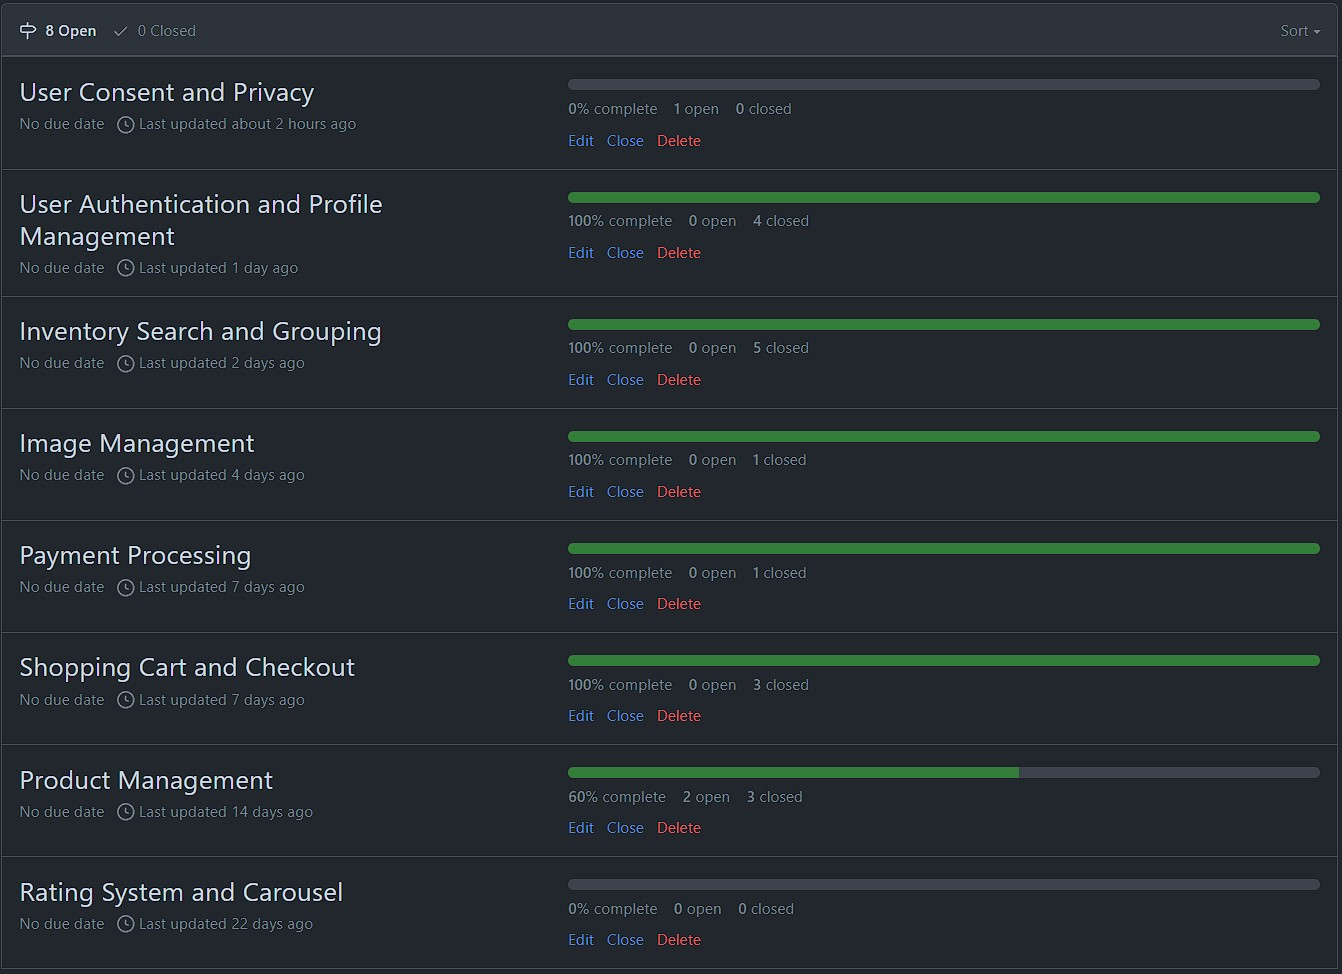
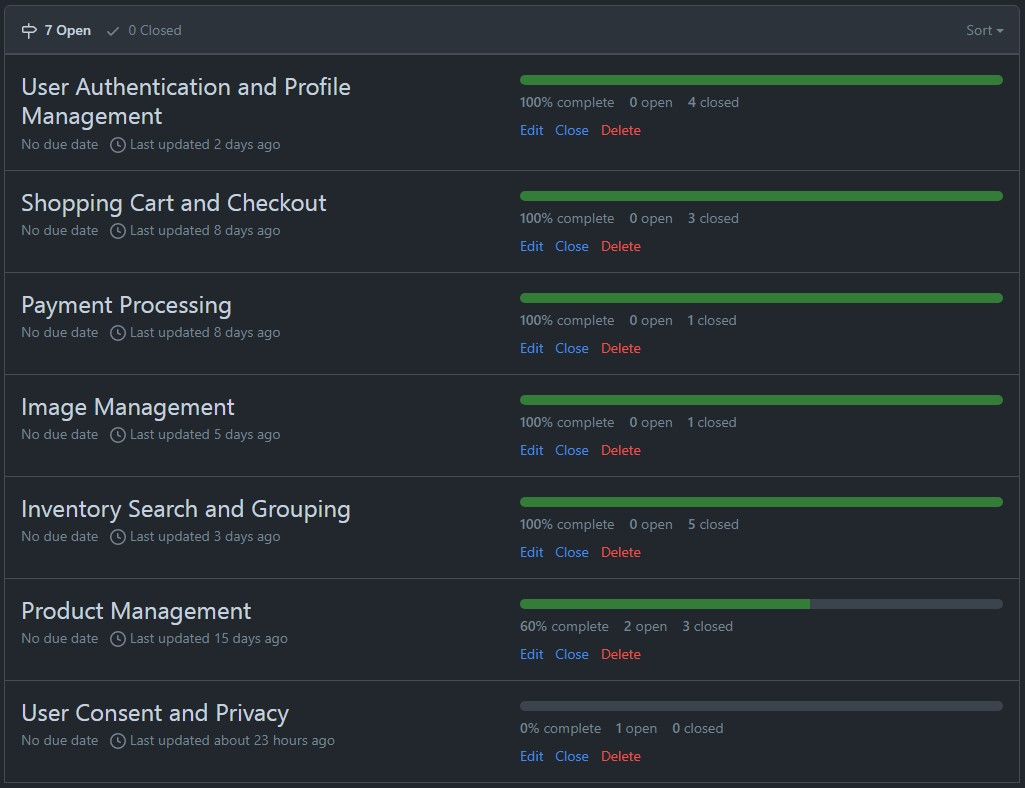
udpate README

diff --git a/README.md b/README.md
@@ -123,13 +123,13 @@ Pixel Perfect is a Django-based web application dedicated to game franchise enth
 
 4. Enable a Seamless User Experience: Focus on providing a smooth and intuitive user experience from listing posters to making purchases, with an emphasis on high-quality images and detailed descriptions.
 
-### User Goals
+## User Goals
 - Discover a Wide Selection of Game-Themed Posters: Explore an extensive collection of high-quality posters from reputable sellers and verified listings.
 - Find a Specialized Platform: Utilize a platform that caters exclusively to the needs and interests of game franchise enthusiasts and art collectors.
 - Safely Buy and Sell Posters: Engage in buying and selling posters within a secure community that values authenticity, quality, and the artistic elements of game franchises.
 - Connect with Other Enthusiasts: Connect with fellow users to share insights, exchange knowledge, and discuss the historical and artistic significance of various game-themed artworks.
 
-### Site Owner Goals
+## Site Owner Goals
 - Establish Pixel Perfect as a Premier Destination: Position Pixel Perfect as the leading online platform for buying and selling high-quality game-themed posters, recognized for its commitment to quality, authenticity, and community engagement.
 - Create a Sustainable Business Model: Develop a business model that attracts a global audience of game art lovers and collectors, providing them with a reliable platform for their buying and selling needs.
 - Continuously Improve the Platform: Enhance the platform based on user feedback and technological advancements, ensuring a state-of-the-art experience for all community members.
@@ -140,7 +140,7 @@ Pixel Perfect is a Django-based web application dedicated to game franchise enth
 
 # User Experience
 
-### Target Audience
+## Target Audience
 Pixel Perfect is tailored for the following target audience:
 
 - Game franchise enthusiasts and collectors seeking a dedicated platform to buy and sell high-quality game-themed posters.
@@ -148,7 +148,7 @@ Pixel Perfect is tailored for the following target audience:
 - Sellers looking for a trustworthy marketplace to list their game-themed posters and reach a global audience of potential buyers.
 - Buyers in search of a secure and user-friendly environment to discover authentic, high-quality game-themed posters from reputable sellers.
 
-### User Requirements and Expectations
+## User Requirements and Expectations
 When using Pixel Perfect, users can expect the following features and characteristics to fulfill their needs:
 
 - A visually appealing and easy-to-navigate interface that enhances the experience of buying and selling game-themed posters.
@@ -157,16 +157,54 @@ When using Pixel Perfect, users can expect the following features and characteri
 - A personalized user profile where sellers can showcase their posters and buyers can manage their purchases and wishlists.
 - Access to a curated selection of high-quality game-themed posters, with detailed information and images to ensure authenticity and quality.
 
+## User Stories
+
+### Epics 
+For this project, I organized my development tasks into 8 main Epics, each grouping related user stories. Due to time constraints, not all Epics have been fully implemented in this deployment. Future updates will incorporate these remaining features into the site.
+
+#### Development Approach
+Instead of following traditional sprints, I closely followed the structure and methodology outlined in the Code Institute's Boutique Ado walkthrough project. This approach guided the construction of the site, ensuring alignment with best practices and industry standards throughout development.
 
 
-### User Stories
+For detailed information, please refer to the [Link to Epics](https://github.com/barryCFlynn/Pixel_Perfect/milestones) for comprehensive insights into the project's scope and development roadmap.
 
-User stories and tasks Grouped below.
+<center> 
 
-- [As a Site Admin, I can create, edit, and delete advertisements - complete](https://github.com/barryCFlynn/WatchBidCentral/issues/1)
+<img src="docs/README/project user milestone list.jpg" alt="" width=900px> 
+
+</center>
+
+1. [User Authentication and Profile Management - complete](https://github.com/barryCFlynn/Pixel_Perfect/milestone/1)
+2. [Shopping Cart and Checkout - complete](https://github.com/barryCFlynn/Pixel_Perfect/milestone/3)
+3. [Payment Processing - complete](https://github.com/barryCFlynn/Pixel_Perfect/milestone/4)
+4. [Image Management - complete](https://github.com/barryCFlynn/Pixel_Perfect/milestone/5)
+5. [Inventory Search and Grouping - complete](https://github.com/barryCFlynn/Pixel_Perfect/milestone/8)
+6. [Product Management - partial](https://github.com/barryCFlynn/Pixel_Perfect/milestone/2)
+7. [User Consent and Privacy - incomplete](https://github.com/barryCFlynn/Pixel_Perfect/milestone/6)
 
 
+### User Stories and Acceptance Criteria
+I have documented a total of 20 user stories, each accompanied by detailed acceptance criteria. These criteria specify the exact requirements and expected outcomes for each feature, facilitating thorough tracking and validation of results.
 
+#### Documentation
+For detailed information, please refer to the [link to user stories](https://github.com/barryCFlynn/Pixel_Perfect/issues?q=) for comprehensive insights into the project's scope and development roadmap.
+
+<center> 
+
+<img src="docs/README/project user stories list.jpg" alt="" width=900px> 
+
+</center>
+
+
+#### Kanban Board
+For detailed information, please refer to the [link to Kanban board](https://github.com/users/barryCFlynn/projects/5/views/1) for comprehensive insights into the project's scope and development roadmap.
+
+
+<center> 
+
+<img src="docs/README/project user stories board.jpg" alt="" width=900px> 
+
+</center>
 
 <br>
 
@@ -230,80 +268,53 @@ This database schema outlines the structure for Pixel Perfect, enabling user eng
 ---
 # Features
 
-### Using Keywords to Enhance Search Functionality
-#### Overview
-In our inventory system, each inventory item can have a set of keywords associated with it. These keywords play a crucial role in improving the searchability of items, allowing users to quickly find what they are looking for based on specific terms related to the product. Keywords can include various descriptors such as genre, style, color, theme, and other relevant attributes.
+## Using Keywords to Enhance Search Functionality
 
-How It Works
-Keyword Field in Inventory Item Model:
-Each inventory item includes a keywords field where multiple keywords can be stored. These keywords are typically comma-separated strings that describe the item in various ways.
+Our inventory system utilizes keywords to enhance item searchability, enabling users to quickly locate products based on specific descriptors like genre, style, color, and more. Keywords are stored in each item's model as comma-separated strings, contributing to a comprehensive search functionality that extends beyond item names and descriptions.
 
-User Experience:
-Users can enter terms related to their interests or needs into the search bar. The system will then look for these terms within the keywords, name, and description fields of inventory items, providing a comprehensive set of results that are more likely to match user expectations.
+### How It Works:
 
-Benefits
-Improved Search Accuracy: By leveraging keywords, the search functionality becomes more accurate and relevant, as it considers various aspects of an item beyond its name and description.
-Enhanced User Experience: Users can find items more easily, making their interaction with the platform more enjoyable and efficient.
-Flexible Categorization: Keywords allow for flexible and dynamic categorization of items, which can adapt to various search patterns and user preferences.
-Example
-For an inventory item representing a poster of a popular game franchise, keywords might include terms like "fantasy", "dragon", "RPG", and "adventure". This allows users searching for any of these terms to find the poster even if these terms are not explicitly mentioned in the item's name or description.
+- Keyword Field: Each inventory item features a keywords field where multiple descriptors are stored.
+- User Experience: Users input terms into the search bar, and the system scans keywords, names, and descriptions to deliver accurate results.
 
-By integrating keywords into the search functionality, we enhance the discoverability of inventory items and provide users with a more powerful and intuitive search experience.
+### Benefits:
 
-### Discount Notification Feature
-#### Overview
-The discount notification feature is designed to inform users when a product has sizes available at a discounted price. This feature ensures that customers are aware of any ongoing sales and can take advantage of the reduced prices.
+- Improved Search Accuracy: Keywords refine search results by considering diverse item attributes.
+- Enhanced User Experience: Simplifies item discovery, enhancing user interaction efficiency.
+- Flexible Categorization: Adapts to varying search patterns and user preferences dynamically.
 
-Implementation Details
-The feature works by checking if any of the available sizes for an inventory item includes the term "Sale." If a sale size is detected, a message indicating the discount is displayed on the product detail page.
+### Example:
 
-How It Works
-Inventory Detail View Update:
-The view function inventory_detail is updated to include a check for sale sizes. It iterates through all the sizes of an inventory item and sets a flag (has_sale_size) if any size contains the term "Sale."
+Keywords like "fantasy", "dragon", "RPG", and "adventure" associated with a game franchise poster ensure users find it even if those terms aren't explicitly in the item's name or description.
 
-Template Update:
-The template inventory_detail.html is updated to conditionally display a message if the has_sale_size flag is set. This informs users that a 25% discount is available on any size.
+By integrating keywords into our search system, we optimize item discoverability, offering users an intuitive and robust search experience.
 
-Benefits
-Increased Awareness: Customers are immediately informed of any ongoing discounts, which can lead to increased sales.
-User-Friendly: The notification is prominently displayed, ensuring that users do not miss out on any potential savings.
-By incorporating this feature, the platform enhances user experience and promotes sales by clearly communicating discounts to potential buyers.
+## Discount Notification Feature
 
-### Newsletter Signup Feature
-#### Overview
+The discount notification feature alerts users to available product sizes at reduced prices, ensuring they are informed of ongoing sales and can capitalize on discounts.
 
-The Newsletter Signup feature allows users to subscribe to our newsletter directly from the site. This feature ensures users stay updated with the latest news, updates, and special offers from Pixel Perfect. The signup form is easily accessible from the navigation menu under "My Account," making it convenient for both new and existing users to subscribe. It uses the built in email featrue of Django to send a custom email in templates/emails.
+### Implementation:
 
-# Models
+- Functionality: The feature identifies if any sizes of an inventory item are marked as "Sale."
+- Update to Inventory Detail View: The inventory_detail view function checks each size for the "Sale" term, setting a flag (has_sale_size) accordingly.
+- Template Adjustment: The inventory_detail.html template is adjusted to display a message when the has_sale_size flag is true, notifying users of a 25% discount on applicable sizes.
 
-## Models Description
+### Benefits:
 
-### Size Model
-The `Size` model defines various size options for the posters, each with an associated price. This model allows for flexible pricing based on the size of the poster and is a Many to Many field.
+Enhanced Awareness: Immediate notification of discounts encourages increased purchases.
+User-Focused: Prominent display ensures users are aware of potential savings.
+By integrating this feature, the platform enhances user experience and promotes sales by effectively communicating discounts to customers.
 
-- **Fields:**
-  - `size`: A character field with choices for 'Small', 'Medium', and 'Large' etc.
-  - `price`: A decimal field that stores the price for each size option.
+## Newsletter Signup Feature
 
-### Product Model
-The `Product` model represents individual posters in the inventory. This model includes comprehensive details about each product and utilizes a `ManyToManyField` to link to multiple `Size` entries. This setup enables each product to have various size and price options.
+The Newsletter Signup feature enables users to easily subscribe to Pixel Perfect's newsletter directly from the site, ensuring they receive the latest news, updates, and special offers.
 
-- **Fields:**
-  - `title`: The name of the product.
-  - `description`: A detailed description of the product.
-  - `artist`: The name of the artist who created the poster.
-  - `rating`: A decimal field to store product ratings.
-  - `keywords`: A text field for comma-separated keywords to facilitate search functionality.
-  - `category`: A foreign key linking to the `Category` model.
-  - `franchise`: A foreign key linking to the `Franchise` model.
-  - `sizes`: A many-to-many field linking to the `Size` model, allowing for multiple size and price options per product.
-  - `stock`: The quantity of the product available in stock.
-  - `available`: A boolean field indicating if the product is available for sale.
-  - `created`: The timestamp when the product was created.
-  - `updated`: The timestamp when the product was last updated.
-  - `image`: An image field to store the product image.
+### Key Features:
 
-This structure provides a robust framework for managing the inventory, supporting detailed product information, and flexible pricing based on size.
+- Accessibility: Located conveniently in the navigation menu under "My Account," accessible to new and existing users.
+- Functionality: Utilizes Django's built-in email capabilities to send custom newsletters.
+- Implementation: Email templates are customized and stored in templates/emails, ensuring consistent branding and communication.
+This feature enhances user engagement by providing a straightforward method for users to stay informed about Pixel Perfect's updates and promotions.
 
 <br>
 
@@ -313,9 +324,9 @@ This structure provides a robust framework for managing the inventory, supportin
 
 # Design
 
-The design of WatchBidCentral is meticulously crafted to resonate with the sophistication and elegance associated with luxury watches. The choice of colors, fonts, and layout are carefully selected to provide an upscale and professional feel, inviting users into a world of high-end watch collecting. The interface combines modern design principles with intuitive navigation, ensuring that both seasoned collectors and new enthusiasts can easily explore, bid, and list watches. The design aims to evoke trust and reliability, mirroring the quality and authenticity of the timepieces featured on the platform.
+I followed the Boutique Ado prject closely as it was a great example of a E Commerce site in choosing simple colours and have a white background to make the products stand out. Especially as the Posters provide so much colour already.
 
-### Color
+## Color
 
 For colour the template I used "https://startbootstrap.com/template/shop-homepage" had a very simple colour scheme that I opted to not chnang:
 
@@ -326,14 +337,18 @@ Primary Background Colour
 
 Secondary Background Colour
 
-![#212529](https://placehold.it/150x40/212529/FFFFFF?text=212529)
+![#000000](https://placehold.it/150x40/000000/FFFFFF?text=000000)
 
 
 
-Contrast Grid - Only AA and AAA options used.
+### Contrast Grid 
+For the contrast grid in the design system, I have chosen to display every color used throughout the site. This includes colors utilised in various elements such as messaging, Stripe integrations, and other components. The contrast grid ensures that all colors are tested for accessibility and visual harmony.
 
- <img src="assets\img\README_images\contrast grid.jpg" alt="Description" width= 600px>
+<center> 
 
+ <img src="docs/README/contrast grid.jpg" alt="" width= 900px> 
+
+</center>
 
 
 <p align="right">(<a href="#table-of-content">back to top</a>)</p>
@@ -342,35 +357,36 @@ Contrast Grid - Only AA and AAA options used.
 
 # Technologies Used
 
-### Languages
+## Languages
 - HTML
 - CSS
 - Python
 - JavaScript
 
-### Frameworks
-- **Django**: A high-level Python web framework that encourages rapid development and clean, pragmatic design, used for building the Culture Club web application.
-- **Crispy Forms**: A Django package that simplifies form layout and styling, making forms more efficient and customizable.
-- **Bootstrap v5.0**: The latest version of the popular CSS framework, used for creating responsive and visually appealing user interfaces.
+## Frameworks
+- `Django`: A high-level Python web framework that encourages rapid development and clean, pragmatic design, used for building the Culture Club web application.
+- `Crispy Forms`: A Django package that simplifies form layout and styling, making forms more efficient and customizable.
+- `Bootstrap v5.0`: The latest version of the popular CSS framework, used for creating responsive and visually appealing user interfaces.
 
-### Database
-- **ElephantSQL**: A cloud-hosted PostgreSQL database service, offering a reliable and scalable storage solution for the application's data.
+## Database
+- `ElephantSQL`: A cloud-hosted PostgreSQL database service, offering a reliable and scalable storage solution for the application's data.
 
-### Media Management Platform
-- **Cloudinary**: A cloud-based platform for media upload, storage, optimization, and delivery, used for managing images in the Culture Club project.
+## Media Management Platform
+- `Cloudinary`: A cloud-based platform for media upload, storage, optimization, and delivery, used for managing images in the Culture Club project.
 
-### Tools
-- **Git**: A version control system for tracking changes in source code during software development.
-- **GitHub**: A platform for hosting and managing Git repositories, enabling collaboration and version control for the project's codebase.
-- **Gitpod**: A cloud-based IDE that provides a consistent and pre-configured development environment for the Culture Club project.
-- **Heroku**: A cloud application platform used for deploying and hosting the Culture Club web application.
-- **Adobe Photoshop**: A graphic design software used for editing and refining images for the website.
-- **DB Diagram**: A tool for visualizing and creating database schemas, used for planning the database structure of Culture Club.
-- **Google Fonts**: A library of free, open-source fonts, used to enhance typography on the website.
-- **Font Awesome**: A library of icons and social logos, used for adding graphical elements to the Culture Club interface.
-- **ChatGPT**: An AI to help troubleshoot issues.
+## Tools
+- `Stripe`: Python library for Stripe API, used to handle payment processing
+- `Git`: A version control system for tracking changes in source code during software development.
+- `GitHub`: A platform for hosting and managing Git repositories, enabling collaboration and version control for the project's codebase.
+- `Gitpod`: A cloud-based IDE that provides a consistent and pre-configured development environment for the Culture Club project.
+- `Heroku`: A cloud application platform used for deploying and hosting the Culture Club web application.
+- `DB Diagram`: A tool for visualizing and creating database schemas, used for planning the database structure of Culture Club.
+- `Google Fonts`: A library of free, open-source fonts, used to enhance typography on the website.
+- `Font Awesome`: A library of icons and social logos, used for adding graphical elements to the Culture Club interface.
+- `ChatGPT`: An AI to help troubleshoot issues.
+- `Dall-E`: An AI for image generation, produced all posters on site.
 
-### Supporting Libraries and Packages
+## Supporting Libraries and Packages
 
 - `asgiref==3.7.2`: foundational package for Django to support asynchronous web protocols like WebSockets.
 - `cloudinary==1.36.0`: integration library for Cloudinary - cloud service for storing and managing media files and assets.
@@ -629,26 +645,22 @@ Solution: Removed the boolean from UserProfile and managed newsletter subscripti
 
 ### Fixed bugs ✅
 
-Cloudinary images were loading in under HTTP protocol and browser was showing warning and upgrading to HTTPS, resolved by adding Cloudinary Config to settings
+1. Mixed Content Warnings
+  Bug: Mixed Content: The page was loaded over HTTPS, but requested an insecure element from HTTP.
+  Solution: Ensure all Cloudinary URLs use HTTPS:
 
-1. Error in Heroku after adding Cloudinary settings
-Bug: NameError: name 'cloudinary' is not defined
-Solution: Ensure Cloudinary was properly imported in settings.py:
+          CLOUDINARY_URL = os.environ.get('CLOUDINARY_URL', 'cloudinary://API_KEY:API_SECRET@CLOUD_NAME')
+          cloudinary.config(
+              secure=True
+          )
 
-        import cloudinary
-        import cloudinary.uploader
-        import cloudinary.api
+2. Error in Heroku after adding Cloudinary settings
+  Bug: NameError: name 'cloudinary' is not defined
+  Solution: Ensure Cloudinary was properly imported in settings.py:
 
-2. Mixed Content Warnings
-Bug: Mixed Content: The page was loaded over HTTPS, but requested an insecure element from HTTP.
-Solution: Ensure all Cloudinary URLs use HTTPS:
-
-        CLOUDINARY_URL = os.environ.get('CLOUDINARY_URL', 'cloudinary://API_KEY:API_SECRET@CLOUD_NAME')
-        cloudinary.config(
-            secure=True
-        )
-
-
+          import cloudinary
+          import cloudinary.uploader
+          import cloudinary.api
 
 3. Duplicate SKU Key Error
 Bug: duplicate key value violates unique constraint "inventory_inventoryitem_sku_uniq".
@@ -724,8 +736,7 @@ These are some of the key bugs encountered and the solutions implemented to reso
 ### App Deployment
 For deploying Your app, Heroku is used. Follow these steps:
 
- **Create a New App:**
-   - Create a new app on Heroku dashboard.
+ **Create a New App:** Create a new app on Heroku dashboard.
 
  **Configure Settings:**
    - Navigate to "Settings" in new app.
